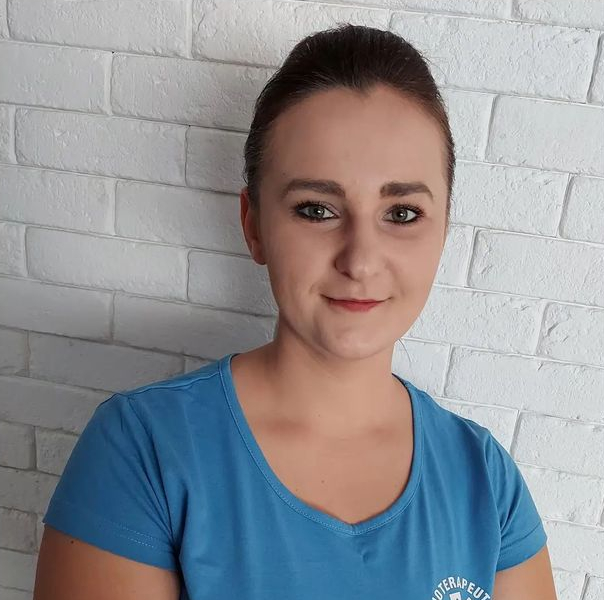
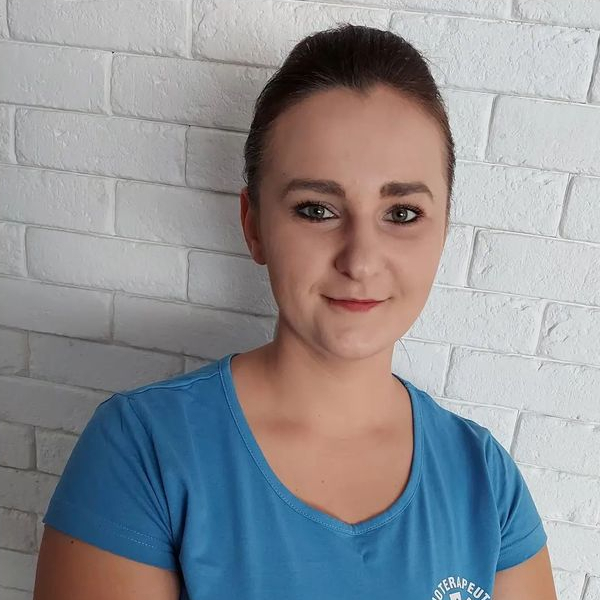
Optimization of employee photos

diff --git a/app/src/data/services.js b/app/src/data/services.js
@@ -18,26 +18,26 @@ import servicesOrthopedics from "../assets/services/servicesOrthopedics.jpg";
 import servicesVasularSurgery from "../assets/services/servicesVasularSurgery.jpg";
 import servicesClinicalDietitian from "../assets/services/servicesClinicalDietitian.jpg";
 
-import ninaWisniewskaImage from '../assets/team/ninaWisniewska/ninaWisniewskaImage.jpg';
-import justynaFilipekImage from '../assets/team/justynaFilipek/justynaFilipekImage.jpg';
-import paulinaBudnaImage from '../assets/team/paulinaBudna/paulinaBudnaImage.jpg';
-import konradKochanImage from '../assets/team/konradKochan/konradKochanImage.jpg';
-import wojciechKaszewskiImage from '../assets/team/wojciechKaszewski/wojciechKaszewskiImage.jpg';
-import justynaKlonieckaImage from '../assets/team/justynaKloniecka/justynaKlonieckaImage.jpg';
-import katarzynaMysliwiecCzajkaImage from '../assets/team/katarzynaMysliwiecCzajka/katarzynaMysliwiecCzajkaImage.jpg';
+import ninaWisniewskaImageSmall from '../assets/team/ninaWisniewska/ninaWisniewskaImageSmall.jpg';
+import justynaFilipekImageSmall from '../assets/team/justynaFilipek/justynaFilipekImageSmall.jpg';
+import paulinaBudnaImageSmall from '../assets/team/paulinaBudna/paulinaBudnaImageSmall.jpg';
+import konradKochanImageSmall from '../assets/team/konradKochan/konradKochanImageSmall.jpg';
+import wojciechKaszewskiImageSmall from '../assets/team/wojciechKaszewski/wojciechKaszewskiImageSmall.jpg';
+import justynaKlonieckaImageSmall from '../assets/team/justynaKloniecka/justynaKlonieckaImageSmall.jpg';
+import katarzynaMysliwiecCzajkaImageSmall from '../assets/team/katarzynaMysliwiecCzajka/katarzynaMysliwiecCzajkaImageSmall.jpg';
 import klaudiaMalottkiImage from '../assets/team/klaudiaMalottki/klaudiaMalottkiImage.jpg';
-import aldonaMaciagImage from '../assets/team/aldonaMaciag/aldonaMaciagImage.jpg';
-import milenaJuzwiakImage from '../assets/team/milenaJuzwiak/milenaJuzwiakImage.jpg';
+import aldonaMaciagImageSmall from '../assets/team/aldonaMaciag/aldonaMaciagImageSmall.jpg';
+import milenaJuzwiakImageSmall from '../assets/team/milenaJuzwiak/milenaJuzwiakImageSmall.jpg';
 import katarzynaZbronskaImage from '../assets/team/katarzynaZbronska/katarzynaZbronskaImage.jpg';
-import tomaszMatuszewskiImage from '../assets/team/tomaszMatuszewski/tomaszMatuszewskiImage.jpg';
-import wojciechTrojanowskiImage from '../assets/team/wojciechTrojanowski/wojciechTrojanowskiImage.jpg';
-import kamilStepkowskiImage from '../assets/team/kamilStepkowski/kamilStepkowskiImage.jpg';
-import olgaLenartowiczWarakomskaImage from '../assets/team/olgaLenartowiczWarakomska/olgaLenartowiczWarakomskaImage.jpg';
-import paulinaTataraImage from '../assets/team/paulinaTatara/paulinaTataraImage.jpg';
-import joannaOjrzenskaImage from '../assets/team/joannaOjrzenska/joannaOjrzenskaImage.jpg';
-import aleksandraGorczynskaImage from '../assets/team/aleksandraGorczynska/aleksandraGorczynskaImage.jpg';
-import annaKulakowskaImage from  '../assets/team/annaKulakowska/annaKulakowskaImage.jpg';
-import miroslawMajewskiImage from  '../assets/team/miroslawMajewski/miroslawMajewskiImage.jpg';
+import tomaszMatuszewskiImageSmall from '../assets/team/tomaszMatuszewski/tomaszMatuszewskiImageSmall.jpg';
+import wojciechTrojanowskiImageSmall from '../assets/team/wojciechTrojanowski/wojciechTrojanowskiImageSmall.jpg';
+import kamilStepkowskiImageSmall from '../assets/team/kamilStepkowski/kamilStepkowskiImageSmall.jpg';
+import olgaLenartowiczWarakomskaImageSmall from '../assets/team/olgaLenartowiczWarakomska/olgaLenartowiczWarakomskaImageSmall.jpg';
+import paulinaTataraImageSmall from '../assets/team/paulinaTatara/paulinaTataraImageSmall.jpg';
+import joannaOjrzenskaImageSmall from '../assets/team/joannaOjrzenska/joannaOjrzenskaImageSmall.jpg';
+import aleksandraGorczynskaImageSmall from '../assets/team/aleksandraGorczynska/aleksandraGorczynskaImageSmall.jpg';
+import annaKulakowskaImageSmall from  '../assets/team/annaKulakowska/annaKulakowskaImageSmall.jpg';
+import miroslawMajewskiImageSmall from  '../assets/team/miroslawMajewski/miroslawMajewskiImageSmall.jpg';
 
 export const dermatology = {
     image: servicesDermatology,
@@ -47,13 +47,13 @@ export const dermatology = {
     path: '/services/dermatology',
     prices: '/prices',
     specialists: [
-        ninaWisniewskaImage,
-        katarzynaMysliwiecCzajkaImage,
-        justynaKlonieckaImage,
-        aldonaMaciagImage,
-        paulinaTataraImage,
+        ninaWisniewskaImageSmall,
+        katarzynaMysliwiecCzajkaImageSmall,
+        justynaKlonieckaImageSmall,
+        aldonaMaciagImageSmall,
+        paulinaTataraImageSmall,
         katarzynaZbronskaImage,
-        annaKulakowskaImage
+        annaKulakowskaImageSmall
     ]
 };
 
@@ -65,11 +65,11 @@ export const aestheticMedicine = {
     path: '/services/aesthetic-medicine',
     prices: '/prices/aesthetic-medicine',
     specialists: [
-        ninaWisniewskaImage,
-        konradKochanImage,
+        ninaWisniewskaImageSmall,
+        konradKochanImageSmall,
         klaudiaMalottkiImage,
-        paulinaTataraImage,
-        olgaLenartowiczWarakomskaImage
+        paulinaTataraImageSmall,
+        olgaLenartowiczWarakomskaImageSmall
     ]
 };
 
@@ -81,8 +81,8 @@ export const cosmetology = {
     path: '/services/cosmetology',
     prices: '/prices/cosmetology',
     specialists: [
-        paulinaBudnaImage,
-        aleksandraGorczynskaImage
+        paulinaBudnaImageSmall,
+        aleksandraGorczynskaImageSmall
     ],
     servicesCosmetologyPeeling: servicesCosmetologyPeeling
 };
@@ -95,7 +95,7 @@ export const physioterapy = {
     path: '/services/physioterapy',
     prices: '/prices/physioterapy',
     specialists: [
-        milenaJuzwiakImage
+        milenaJuzwiakImageSmall
     ],
     servicesPhysioterapyElasticTherapeuticTape: servicesPhysioterapyElasticTherapeuticTape,
     servicesPhysioterapyMassage: servicesPhysioterapyMassage,
@@ -109,7 +109,7 @@ export const cosmeticSurgery = {
     path: '/services/cosmetic-surgery',
     prices: '/prices/cosmetic-surgery',
     specialists: [
-        konradKochanImage
+        konradKochanImageSmall
     ]
 };
 
@@ -121,7 +121,7 @@ export const allergology = {
     path: '/services/allergology',
     prices: '/prices/allergology',
     specialists: [
-        tomaszMatuszewskiImage
+        tomaszMatuszewskiImageSmall
     ]
 };
 
@@ -133,8 +133,8 @@ export const usg = {
     path: '/services/usg',
     prices: '/prices/usg',
     specialists: [
-        justynaFilipekImage,
-        wojciechTrojanowskiImage
+        justynaFilipekImageSmall,
+        wojciechTrojanowskiImageSmall
     ]
 };
 
@@ -146,7 +146,7 @@ export const endocrinology = {
     path: '/services/endocrinology',
     prices: '/prices/endocrinology',
     specialists: [
-        justynaFilipekImage
+        justynaFilipekImageSmall
     ]
 };
 
@@ -158,7 +158,7 @@ export const gynecology = {
     path: '/services/gynecology',
     prices: '/prices/gynecology',
     specialists: [
-        justynaFilipekImage
+        justynaFilipekImageSmall
     ]
 };
 
@@ -170,7 +170,7 @@ export const orthopedics = {
     path: '/services/orthopedics',
     prices: '/prices/orthopedics',
     specialists: [
-        wojciechKaszewskiImage
+        wojciechKaszewskiImageSmall
     ]
 };
 
@@ -182,7 +182,7 @@ export const vasularSurgery = {
     path: '/services/vascular-surgery',
     prices: '/prices/vascular-surgery',
     specialists: [
-        kamilStepkowskiImage
+        kamilStepkowskiImageSmall
     ]
 };
 
@@ -194,7 +194,7 @@ export const clinicalDietitian = {
     path: '/services/clinical-dietitian',
     prices: '/prices/clinical-dietitian',
     specialists: [
-        joannaOjrzenskaImage
+        joannaOjrzenskaImageSmall
     ]
 };
 
@@ -206,7 +206,7 @@ export const hematology = {
     path: '/services/hematology',
     prices: '/prices/hematology',
     specialists: [
-        miroslawMajewskiImage
+        miroslawMajewskiImageSmall
     ]
 };
 
